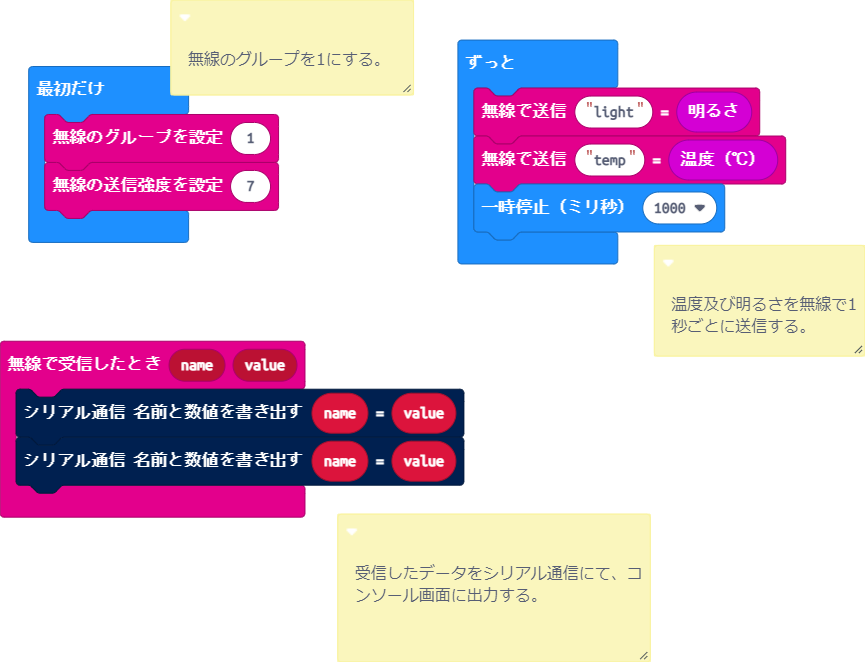
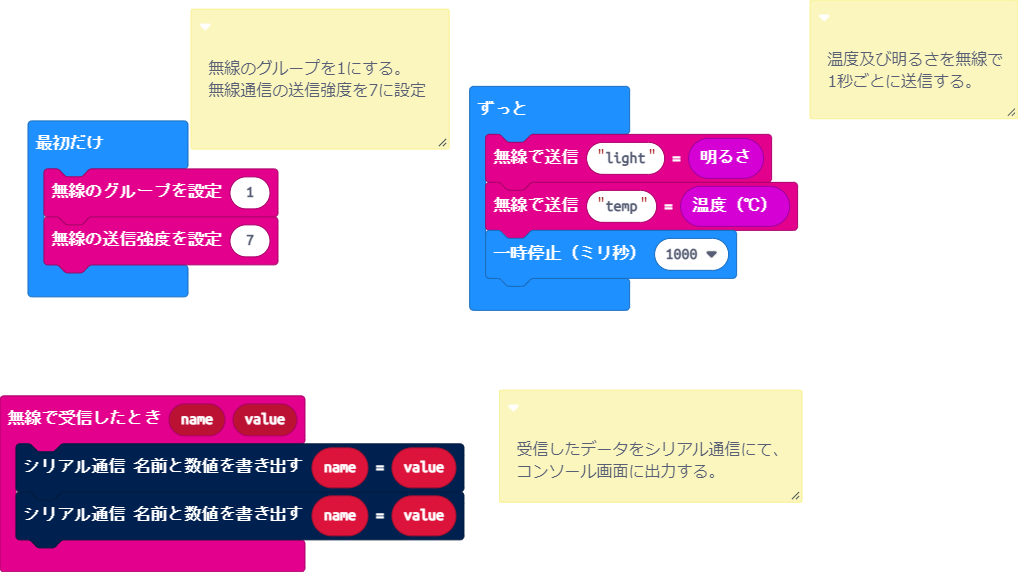
commit

diff --git a/main.ts b/main.ts
@@ -7,6 +7,8 @@ radio.onReceivedValue(function (name, value) {
 })
 /**
  * 無線のグループを1にする。
+ * 
+ * 無線通信の送信強度を7に設定
  */
 radio.setGroup(1)
 radio.setTransmitPower(7)
